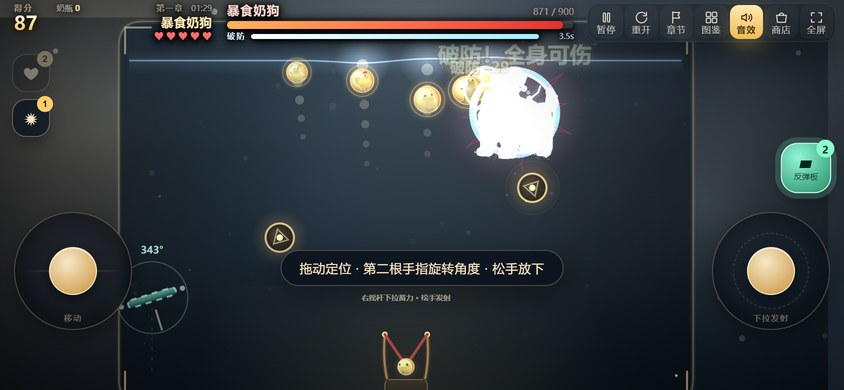
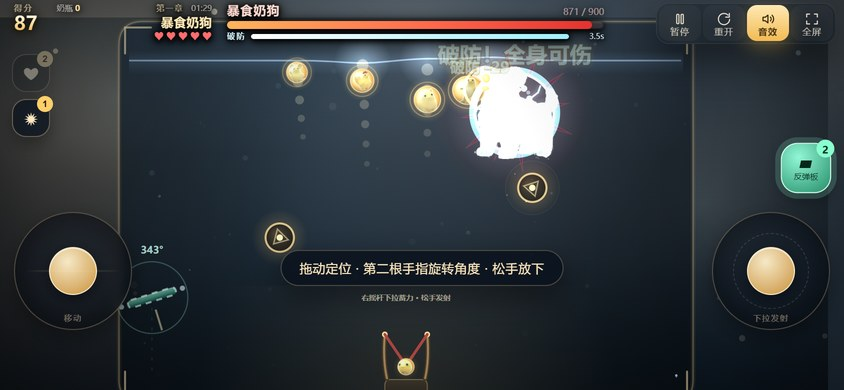
fix+perf: 血条宽度自适应、顶部按键减少并加大、素材加指纹
1) 血条自适应（原 #hud right 写死 258px）
   - 小屏 568x320 时 258px 占近一半屏宽，血条只剩 14%
   - 改为 clamp(196px, 27%, 258px)：568x320 -> 25%，640x360 -> 33%，844x390 -> 46%
   - 布局探测 8 种尺寸全部无越界/无重叠

2) 顶部工具条从 7 键减到 4 键（暂停/重开/音效/全屏）
   - 单键 33x34 -> 42x36，更接近 44px 触控建议，缓解误触
   - 图鉴/商店移入暂停面板（两列网格），章节仍走面板里的『选择章节』
   - 顶部整条 180x42，与摇杆间距 168px

3) 素材指纹（Netlify 上 assets 缓存 1 天的问题）
   - build.js 按全部图片内容算 10 位哈希，注入 ASSET_VER
   - assetURL 拼 ?v=xxx，改图立刻生效；单文件版该值为空不影响
   - 实测：网页版 ASSET_VER=6bbb5b711a，单文件版为空

测试 29 项全通过（暂停测试改为断言 4 键 + 图鉴/商店在面板内）。
按产品要求未做 prefers-reduced-motion。

Changed region(s): [[0.6161, 0.0, 0.9858, 0.1231]]

diff --git a/index.html b/index.html
@@ -343,6 +343,9 @@ body.playing #dock{opacity:1;pointer-events:auto}
 /* 暂停面板：沿用结算面板的结构与按钮，只换颜色，保证风格统一 */
 .pause-sheet{text-align:center;padding:24px 20px 20px}
 .pause-title{margin:2px 0 6px;font-size:21px;font-weight:900;letter-spacing:.06em;color:#ffe8b8}
+/* 暂停面板里的次级按钮排成两列，5 个按钮也放得下 */
+.pause-grid{display:grid;grid-template-columns:1fr 1fr;gap:8px;margin-top:9px}
+.pause-grid .ghost-btn{margin-top:0}
 .result-kicker{margin:0 0 5px;font-size:9px;letter-spacing:.5em;color:rgba(255,206,120,.7);font-weight:700}
 .win-title{margin:0;font-size:22px;font-weight:900;letter-spacing:.04em;color:#fff2d8}
 .win-title em{font-style:normal;color:#ffd477}
@@ -651,9 +654,10 @@ body.playing #bPlate.arm{
    所以横屏把 HUD 压成"一条横带"：左=得分/奶瓶，中=Boss 血条+破防，右=章节/生命。
    ========================================================= */
 @media (orientation:landscape){
-  /* 右侧留 258px 给「道具栏」，Boss 血条因此只占约 42%，不再横贯全屏 */
+  /* 右侧留给顶部工具条。用 clamp 而不是写死 258px：
+     小屏（如 568x320）上 258px 会吃掉近一半宽度，血条只剩 14%。 */
   #hud{
-    left:0;right:258px;transform:none;width:auto;
+    left:0;right:clamp(196px, 27%, 258px);transform:none;width:auto;
     top:calc(var(--sat) + 2px);padding:0 8px 0 10px;
     flex-direction:row;align-items:flex-start;gap:7px;
   }
@@ -702,13 +706,14 @@ body.playing #bPlate.arm{
     background:rgba(8,14,24,.34);border-color:rgba(255,255,255,.055);
     backdrop-filter:blur(10px);-webkit-backdrop-filter:blur(10px);
   }
+  /* 只剩 4 个常用键（暂停/重开/音效/全屏），单键从 33x34 加到 42x36 */
   .dock-btn{
-    flex:0 0 auto;width:33px;height:34px;
-    padding:2px 0 1px;border-radius:9px;gap:0;
+    flex:0 0 auto;width:42px;height:36px;
+    padding:3px 0 2px;border-radius:10px;gap:0;
     background:rgba(255,255,255,.03);border:none;
   }
-  .dock-btn svg{width:15px;height:15px}
-  .dock-btn .tx{font-size:6.5px;letter-spacing:0;line-height:1.05}
+  .dock-btn svg{width:16px;height:16px}
+  .dock-btn .tx{font-size:7px;letter-spacing:0;line-height:1.05}
 
   /* ---- 摇杆 ---- */
   .stick{width:118px;height:118px;bottom:calc(var(--sab) + 60px)}
@@ -851,22 +856,10 @@ body.playing #bPlate.arm{
     <svg viewBox="0 0 24 24"><path d="M20.4 12.6A8.4 8.4 0 1 1 18 6.2"/><path d="M20 3.6v5.6h-5.6"/></svg>
     <span class="tx">重开</span>
   </button>
-  <button class="dock-btn" id="bLevels" aria-label="章节">
-    <svg viewBox="0 0 24 24"><path d="M6 21V3"/><path d="M6 4h11l-2.2 4.2L17 13H6"/></svg>
-    <span class="tx">章节</span>
-  </button>
-  <button class="dock-btn" id="bGallery" aria-label="图鉴">
-    <svg viewBox="0 0 24 24"><rect x="3.6" y="3.6" width="7.1" height="7.1" rx="1.7"/><rect x="13.3" y="3.6" width="7.1" height="7.1" rx="1.7"/><rect x="3.6" y="13.3" width="7.1" height="7.1" rx="1.7"/><rect x="13.3" y="13.3" width="7.1" height="7.1" rx="1.7"/></svg>
-    <span class="tx">图鉴</span>
-  </button>
   <button class="dock-btn on snd-btn" id="bSound" aria-label="音效开关" aria-pressed="true">
     <svg class="ico-on" viewBox="0 0 24 24"><path d="M4.5 9.4v5.2h3.3l4.1 3.2V6.2L7.8 9.4z"/><path d="M15.6 9.1a4.2 4.2 0 0 1 0 5.8"/><path d="M18.2 6.4a8 8 0 0 1 0 11.2"/></svg>
     <svg class="ico-off" viewBox="0 0 24 24" style="display:none"><path d="M4.5 9.4v5.2h3.3l4.1 3.2V6.2L7.8 9.4z"/><path d="M16.2 9.6l5 5M21.2 9.6l-5 5"/></svg>
     <span class="tx">音效</span>
-  </button>
-  <button class="dock-btn" id="bShop" aria-label="商店">
-    <svg viewBox="0 0 24 24"><path d="M4.2 8.5h15.6l-1.4 11.2H5.6z"/><path d="M8.4 8.5a3.6 3.6 0 0 1 7.2 0"/></svg>
-    <span class="tx">商店</span>
   </button>
   <button class="dock-btn" id="bFull" aria-label="全屏">
     <svg viewBox="0 0 24 24"><path d="M4 9V4.6h4.4"/><path d="M20 9V4.6h-4.4"/><path d="M4 15v4.4h4.4"/><path d="M20 15v4.4h-4.4"/></svg>
@@ -995,8 +988,15 @@ body.playing #bPlate.arm{
     <h2 class="pause-title">已暂停</h2>
     <p class="lose-sub">喝口水，回来接着打</p>
     <button id="bResume" class="start-btn small"><span>继 续 游 戏</span></button>
-    <button class="ghost-btn" id="bPauseRestart">重开本关</button>
-    <button class="ghost-btn" id="bPauseLevels">选择章节</button>
+    <div class="pause-grid">
+      <button class="ghost-btn" id="bPauseRestart">重开本关</button>
+      <button class="ghost-btn" id="bPauseLevels">选择章节</button>
+    </div>
+    <!-- 图鉴 / 商店原来挤在顶部工具条里，挪到这里：顶部只留 4 个常用键，触控目标才够大 -->
+    <div class="pause-grid">
+      <button class="ghost-btn" id="bGallery">角色图鉴</button>
+      <button class="ghost-btn" id="bShop">奶瓶商店</button>
+    </div>
   </div>
 </section>
 
@@ -1042,10 +1042,15 @@ var ASSET_BASE = 'assets/';
    （它 302 到带签名的临时地址），浏览器 <audio> 无法流式解码，
    所以音频通常仍与 HTML 同源，图片则可以放心外置到仓库/CDN。 */
 var AUDIO_BASE = 'assets/';
+/* 素材指纹：由 build.js 按素材内容算出的短哈希，拼在 URL 后做缓存击穿。
+   文件名不变但内容变了也能立刻拿到新图，不用等 Netlify 那 1 天的 assets 缓存。
+   单文件版素材已内联，该值为空串，不影响。 */
+var ASSET_VER = /*__ASSET_VER__*/'';
 function assetURL(name){
   var slug = charImg(name);          /* 中文角色名 -> ASCII 文件名 */
   if(ASSET_DATA) return ASSET_DATA.sprites[slug] || '';
-  return ASSET_BASE + slug + '.' + SPRITE_EXT;
+  var q = ASSET_VER ? '?v=' + ASSET_VER : '';
+  return ASSET_BASE + slug + '.' + SPRITE_EXT + q;
 }
 
 /* =========================================================
@@ -6124,7 +6129,7 @@ function bindEvents(){
     closeAllScreens();
     startLevel(state.chapterIndex);
   });
-  $id('bLevels').addEventListener('click', openLevels);
+  /* 章节入口已并入暂停面板（bPauseLevels），顶部工具条只留 4 个常用键 */
   $id('bGallery').addEventListener('click', showGallery);
   $id('bShop').addEventListener('click', function(){ Sound.ui(); openShop(); });
   $id('itemBar').addEventListener('click', function(e){

diff --git a/奶系弹珠_弹射讨伐.html b/奶系弹珠_弹射讨伐.html
@@ -343,6 +343,9 @@ body.playing #dock{opacity:1;pointer-events:auto}
 /* 暂停面板：沿用结算面板的结构与按钮，只换颜色，保证风格统一 */
 .pause-sheet{text-align:center;padding:24px 20px 20px}
 .pause-title{margin:2px 0 6px;font-size:21px;font-weight:900;letter-spacing:.06em;color:#ffe8b8}
+/* 暂停面板里的次级按钮排成两列，5 个按钮也放得下 */
+.pause-grid{display:grid;grid-template-columns:1fr 1fr;gap:8px;margin-top:9px}
+.pause-grid .ghost-btn{margin-top:0}
 .result-kicker{margin:0 0 5px;font-size:9px;letter-spacing:.5em;color:rgba(255,206,120,.7);font-weight:700}
 .win-title{margin:0;font-size:22px;font-weight:900;letter-spacing:.04em;color:#fff2d8}
 .win-title em{font-style:normal;color:#ffd477}
@@ -651,9 +654,10 @@ body.playing #bPlate.arm{
    所以横屏把 HUD 压成"一条横带"：左=得分/奶瓶，中=Boss 血条+破防，右=章节/生命。
    ========================================================= */
 @media (orientation:landscape){
-  /* 右侧留 258px 给「道具栏」，Boss 血条因此只占约 42%，不再横贯全屏 */
+  /* 右侧留给顶部工具条。用 clamp 而不是写死 258px：
+     小屏（如 568x320）上 258px 会吃掉近一半宽度，血条只剩 14%。 */
   #hud{
-    left:0;right:258px;transform:none;width:auto;
+    left:0;right:clamp(196px, 27%, 258px);transform:none;width:auto;
     top:calc(var(--sat) + 2px);padding:0 8px 0 10px;
     flex-direction:row;align-items:flex-start;gap:7px;
   }
@@ -702,13 +706,14 @@ body.playing #bPlate.arm{
     background:rgba(8,14,24,.34);border-color:rgba(255,255,255,.055);
     backdrop-filter:blur(10px);-webkit-backdrop-filter:blur(10px);
   }
+  /* 只剩 4 个常用键（暂停/重开/音效/全屏），单键从 33x34 加到 42x36 */
   .dock-btn{
-    flex:0 0 auto;width:33px;height:34px;
-    padding:2px 0 1px;border-radius:9px;gap:0;
+    flex:0 0 auto;width:42px;height:36px;
+    padding:3px 0 2px;border-radius:10px;gap:0;
     background:rgba(255,255,255,.03);border:none;
   }
-  .dock-btn svg{width:15px;height:15px}
-  .dock-btn .tx{font-size:6.5px;letter-spacing:0;line-height:1.05}
+  .dock-btn svg{width:16px;height:16px}
+  .dock-btn .tx{font-size:7px;letter-spacing:0;line-height:1.05}
 
   /* ---- 摇杆 ---- */
   .stick{width:118px;height:118px;bottom:calc(var(--sab) + 60px)}
@@ -851,22 +856,10 @@ body.playing #bPlate.arm{
     <svg viewBox="0 0 24 24"><path d="M20.4 12.6A8.4 8.4 0 1 1 18 6.2"/><path d="M20 3.6v5.6h-5.6"/></svg>
     <span class="tx">重开</span>
   </button>
-  <button class="dock-btn" id="bLevels" aria-label="章节">
-    <svg viewBox="0 0 24 24"><path d="M6 21V3"/><path d="M6 4h11l-2.2 4.2L17 13H6"/></svg>
-    <span class="tx">章节</span>
-  </button>
-  <button class="dock-btn" id="bGallery" aria-label="图鉴">
-    <svg viewBox="0 0 24 24"><rect x="3.6" y="3.6" width="7.1" height="7.1" rx="1.7"/><rect x="13.3" y="3.6" width="7.1" height="7.1" rx="1.7"/><rect x="3.6" y="13.3" width="7.1" height="7.1" rx="1.7"/><rect x="13.3" y="13.3" width="7.1" height="7.1" rx="1.7"/></svg>
-    <span class="tx">图鉴</span>
-  </button>
   <button class="dock-btn on snd-btn" id="bSound" aria-label="音效开关" aria-pressed="true">
     <svg class="ico-on" viewBox="0 0 24 24"><path d="M4.5 9.4v5.2h3.3l4.1 3.2V6.2L7.8 9.4z"/><path d="M15.6 9.1a4.2 4.2 0 0 1 0 5.8"/><path d="M18.2 6.4a8 8 0 0 1 0 11.2"/></svg>
     <svg class="ico-off" viewBox="0 0 24 24" style="display:none"><path d="M4.5 9.4v5.2h3.3l4.1 3.2V6.2L7.8 9.4z"/><path d="M16.2 9.6l5 5M21.2 9.6l-5 5"/></svg>
     <span class="tx">音效</span>
-  </button>
-  <button class="dock-btn" id="bShop" aria-label="商店">
-    <svg viewBox="0 0 24 24"><path d="M4.2 8.5h15.6l-1.4 11.2H5.6z"/><path d="M8.4 8.5a3.6 3.6 0 0 1 7.2 0"/></svg>
-    <span class="tx">商店</span>
   </button>
   <button class="dock-btn" id="bFull" aria-label="全屏">
     <svg viewBox="0 0 24 24"><path d="M4 9V4.6h4.4"/><path d="M20 9V4.6h-4.4"/><path d="M4 15v4.4h4.4"/><path d="M20 15v4.4h-4.4"/></svg>
@@ -995,8 +988,15 @@ body.playing #bPlate.arm{
     <h2 class="pause-title">已暂停</h2>
     <p class="lose-sub">喝口水，回来接着打</p>
     <button id="bResume" class="start-btn small"><span>继 续 游 戏</span></button>
-    <button class="ghost-btn" id="bPauseRestart">重开本关</button>
-    <button class="ghost-btn" id="bPauseLevels">选择章节</button>
+    <div class="pause-grid">
+      <button class="ghost-btn" id="bPauseRestart">重开本关</button>
+      <button class="ghost-btn" id="bPauseLevels">选择章节</button>
+    </div>
+    <!-- 图鉴 / 商店原来挤在顶部工具条里，挪到这里：顶部只留 4 个常用键，触控目标才够大 -->
+    <div class="pause-grid">
+      <button class="ghost-btn" id="bGallery">角色图鉴</button>
+      <button class="ghost-btn" id="bShop">奶瓶商店</button>
+    </div>
   </div>
 </section>
 
@@ -1042,10 +1042,15 @@ var ASSET_BASE = 'assets/';
    （它 302 到带签名的临时地址），浏览器 <audio> 无法流式解码，
    所以音频通常仍与 HTML 同源，图片则可以放心外置到仓库/CDN。 */
 var AUDIO_BASE = 'assets/';
+/* 素材指纹：由 build.js 按素材内容算出的短哈希，拼在 URL 后做缓存击穿。
+   文件名不变但内容变了也能立刻拿到新图，不用等 Netlify 那 1 天的 assets 缓存。
+   单文件版素材已内联，该值为空串，不影响。 */
+var ASSET_VER = /*__ASSET_VER__*/'';
 function assetURL(name){
   var slug = charImg(name);          /* 中文角色名 -> ASCII 文件名 */
   if(ASSET_DATA) return ASSET_DATA.sprites[slug] || '';
-  return ASSET_BASE + slug + '.' + SPRITE_EXT;
+  var q = ASSET_VER ? '?v=' + ASSET_VER : '';
+  return ASSET_BASE + slug + '.' + SPRITE_EXT + q;
 }
 
 /* =========================================================
@@ -6124,7 +6129,7 @@ function bindEvents(){
     closeAllScreens();
     startLevel(state.chapterIndex);
   });
-  $id('bLevels').addEventListener('click', openLevels);
+  /* 章节入口已并入暂停面板（bPauseLevels），顶部工具条只留 4 个常用键 */
   $id('bGallery').addEventListener('click', showGallery);
   $id('bShop').addEventListener('click', function(){ Sound.ui(); openShop(); });
   $id('itemBar').addEventListener('click', function(e){

diff --git a/src/parts/index.html b/src/parts/index.html
@@ -71,22 +71,10 @@
     <svg viewBox="0 0 24 24"><path d="M20.4 12.6A8.4 8.4 0 1 1 18 6.2"/><path d="M20 3.6v5.6h-5.6"/></svg>
     <span class="tx">重开</span>
   </button>
-  <button class="dock-btn" id="bLevels" aria-label="章节">
-    <svg viewBox="0 0 24 24"><path d="M6 21V3"/><path d="M6 4h11l-2.2 4.2L17 13H6"/></svg>
-    <span class="tx">章节</span>
-  </button>
-  <button class="dock-btn" id="bGallery" aria-label="图鉴">
-    <svg viewBox="0 0 24 24"><rect x="3.6" y="3.6" width="7.1" height="7.1" rx="1.7"/><rect x="13.3" y="3.6" width="7.1" height="7.1" rx="1.7"/><rect x="3.6" y="13.3" width="7.1" height="7.1" rx="1.7"/><rect x="13.3" y="13.3" width="7.1" height="7.1" rx="1.7"/></svg>
-    <span class="tx">图鉴</span>
-  </button>
   <button class="dock-btn on snd-btn" id="bSound" aria-label="音效开关" aria-pressed="true">
     <svg class="ico-on" viewBox="0 0 24 24"><path d="M4.5 9.4v5.2h3.3l4.1 3.2V6.2L7.8 9.4z"/><path d="M15.6 9.1a4.2 4.2 0 0 1 0 5.8"/><path d="M18.2 6.4a8 8 0 0 1 0 11.2"/></svg>
     <svg class="ico-off" viewBox="0 0 24 24" style="display:none"><path d="M4.5 9.4v5.2h3.3l4.1 3.2V6.2L7.8 9.4z"/><path d="M16.2 9.6l5 5M21.2 9.6l-5 5"/></svg>
     <span class="tx">音效</span>
-  </button>
-  <button class="dock-btn" id="bShop" aria-label="商店">
-    <svg viewBox="0 0 24 24"><path d="M4.2 8.5h15.6l-1.4 11.2H5.6z"/><path d="M8.4 8.5a3.6 3.6 0 0 1 7.2 0"/></svg>
-    <span class="tx">商店</span>
   </button>
   <button class="dock-btn" id="bFull" aria-label="全屏">
     <svg viewBox="0 0 24 24"><path d="M4 9V4.6h4.4"/><path d="M20 9V4.6h-4.4"/><path d="M4 15v4.4h4.4"/><path d="M20 15v4.4h-4.4"/></svg>
@@ -215,8 +203,15 @@
     <h2 class="pause-title">已暂停</h2>
     <p class="lose-sub">喝口水，回来接着打</p>
     <button id="bResume" class="start-btn small"><span>继 续 游 戏</span></button>
-    <button class="ghost-btn" id="bPauseRestart">重开本关</button>
-    <button class="ghost-btn" id="bPauseLevels">选择章节</button>
+    <div class="pause-grid">
+      <button class="ghost-btn" id="bPauseRestart">重开本关</button>
+      <button class="ghost-btn" id="bPauseLevels">选择章节</button>
+    </div>
+    <!-- 图鉴 / 商店原来挤在顶部工具条里，挪到这里：顶部只留 4 个常用键，触控目标才够大 -->
+    <div class="pause-grid">
+      <button class="ghost-btn" id="bGallery">角色图鉴</button>
+      <button class="ghost-btn" id="bShop">奶瓶商店</button>
+    </div>
   </div>
 </section>
 

diff --git a/src/parts/style.css b/src/parts/style.css
@@ -334,6 +334,9 @@ body.playing #dock{opacity:1;pointer-events:auto}
 /* 暂停面板：沿用结算面板的结构与按钮，只换颜色，保证风格统一 */
 .pause-sheet{text-align:center;padding:24px 20px 20px}
 .pause-title{margin:2px 0 6px;font-size:21px;font-weight:900;letter-spacing:.06em;color:#ffe8b8}
+/* 暂停面板里的次级按钮排成两列，5 个按钮也放得下 */
+.pause-grid{display:grid;grid-template-columns:1fr 1fr;gap:8px;margin-top:9px}
+.pause-grid .ghost-btn{margin-top:0}
 .result-kicker{margin:0 0 5px;font-size:9px;letter-spacing:.5em;color:rgba(255,206,120,.7);font-weight:700}
 .win-title{margin:0;font-size:22px;font-weight:900;letter-spacing:.04em;color:#fff2d8}
 .win-title em{font-style:normal;color:#ffd477}
@@ -642,9 +645,10 @@ body.playing #bPlate.arm{
    所以横屏把 HUD 压成"一条横带"：左=得分/奶瓶，中=Boss 血条+破防，右=章节/生命。
    ========================================================= */
 @media (orientation:landscape){
-  /* 右侧留 258px 给「道具栏」，Boss 血条因此只占约 42%，不再横贯全屏 */
+  /* 右侧留给顶部工具条。用 clamp 而不是写死 258px：
+     小屏（如 568x320）上 258px 会吃掉近一半宽度，血条只剩 14%。 */
   #hud{
-    left:0;right:258px;transform:none;width:auto;
+    left:0;right:clamp(196px, 27%, 258px);transform:none;width:auto;
     top:calc(var(--sat) + 2px);padding:0 8px 0 10px;
     flex-direction:row;align-items:flex-start;gap:7px;
   }
@@ -693,13 +697,14 @@ body.playing #bPlate.arm{
     background:rgba(8,14,24,.34);border-color:rgba(255,255,255,.055);
     backdrop-filter:blur(10px);-webkit-backdrop-filter:blur(10px);
   }
+  /* 只剩 4 个常用键（暂停/重开/音效/全屏），单键从 33x34 加到 42x36 */
   .dock-btn{
-    flex:0 0 auto;width:33px;height:34px;
-    padding:2px 0 1px;border-radius:9px;gap:0;
+    flex:0 0 auto;width:42px;height:36px;
+    padding:3px 0 2px;border-radius:10px;gap:0;
     background:rgba(255,255,255,.03);border:none;
   }
-  .dock-btn svg{width:15px;height:15px}
-  .dock-btn .tx{font-size:6.5px;letter-spacing:0;line-height:1.05}
+  .dock-btn svg{width:16px;height:16px}
+  .dock-btn .tx{font-size:7px;letter-spacing:0;line-height:1.05}
 
   /* ---- 摇杆 ---- */
   .stick{width:118px;height:118px;bottom:calc(var(--sab) + 60px)}

diff --git a/build.js b/build.js
@@ -99,6 +99,19 @@ for (const name of fs.readdirSync(assetsDir)) {
   stems.add(stem);
 }
 
+/* 素材指纹：把所有图片按文件名+内容算一个短哈希。
+   任意一张立绘改了，哈希就变，URL 跟着变，CDN 缓存自然被击穿。 */
+const assetsVer = (() => {
+  const crypto = require('crypto');
+  const h = crypto.createHash('sha1');
+  const files = fs.readdirSync(assetsDir).filter((n) => /\.(png|webp)$/i.test(n)).sort();
+  for (const f of files) {
+    h.update(f);
+    h.update(fs.readFileSync(path.join(assetsDir, f)));
+  }
+  return files.length ? h.digest('hex').slice(0, 10) : '';
+})();
+
 const sprites = {};
 const spriteSource = {};
 for (const stem of [...stems].sort()) {
@@ -155,6 +168,15 @@ if (webMode) {
   };
   if (assetBaseArg) rewrite('ASSET_BASE', assetBaseArg);
   if (audioBaseArg) rewrite('AUDIO_BASE', audioBaseArg);
+
+  /* 素材指纹：按内容算一个短哈希拼到图片 URL 后面。
+     Netlify 上 assets/* 缓存 1 天，不加这个改了立绘要等缓存过期才生效。 */
+  if (assetsVer) {
+    const def = `var ASSET_VER = /*__ASSET_VER__*/'';`;
+    if (!webHtml.includes(def)) throw new Error('源码里找不到 ASSET_VER 占位，无法注入');
+    webHtml = webHtml.replace(def, () => `var ASSET_VER = ${JSON.stringify(assetsVer)};`);
+    console.log(`ASSET_VER = ${assetsVer}`);
+  }
 
   fs.writeFileSync(path.join(webDir, 'index.html'), webHtml, 'utf8');
 

diff --git a/src/parts/js/00-utils.js b/src/parts/js/00-utils.js
@@ -28,9 +28,14 @@ var ASSET_BASE = 'assets/';
    （它 302 到带签名的临时地址），浏览器 <audio> 无法流式解码，
    所以音频通常仍与 HTML 同源，图片则可以放心外置到仓库/CDN。 */
 var AUDIO_BASE = 'assets/';
+/* 素材指纹：由 build.js 按素材内容算出的短哈希，拼在 URL 后做缓存击穿。
+   文件名不变但内容变了也能立刻拿到新图，不用等 Netlify 那 1 天的 assets 缓存。
+   单文件版素材已内联，该值为空串，不影响。 */
+var ASSET_VER = /*__ASSET_VER__*/'';
 function assetURL(name){
   var slug = charImg(name);          /* 中文角色名 -> ASCII 文件名 */
   if(ASSET_DATA) return ASSET_DATA.sprites[slug] || '';
-  return ASSET_BASE + slug + '.' + SPRITE_EXT;
+  var q = ASSET_VER ? '?v=' + ASSET_VER : '';
+  return ASSET_BASE + slug + '.' + SPRITE_EXT + q;
 }
 

diff --git a/src/parts/js/20-boot.js b/src/parts/js/20-boot.js
@@ -132,7 +132,7 @@ function bindEvents(){
     closeAllScreens();
     startLevel(state.chapterIndex);
   });
-  $id('bLevels').addEventListener('click', openLevels);
+  /* 章节入口已并入暂停面板（bPauseLevels），顶部工具条只留 4 个常用键 */
   $id('bGallery').addEventListener('click', showGallery);
   $id('bShop').addEventListener('click', function(){ Sound.ui(); openShop(); });
   $id('itemBar').addEventListener('click', function(e){

diff --git a/README.md b/README.md
@@ -123,10 +123,11 @@
   中=Boss 血条+破防，右=章节/生命；不画卡片背景、只留投影，避免挡住场地顶部的 Boss。
 - **场地贴底**：横屏时场地框直接拉到屏幕最底部（只留 4px 描边余量），可玩带 143 → **319px**
   （844×390 下 277px），底下不再留一条空带。
-- **左右两栏都用起来**：7 个功能键（暂停/重开/章节/图鉴/音效/商店/全屏）做成 2 列竖栏放**左侧**，
-  道具栏 + 反弹板按钮放**右侧**（摇杆上方），左右对称、互不压场地。摇杆 118px 在左右下角。
-  反弹板按钮**没买就整个隐藏**，不会用一个「0」的空按钮占地方。
-  竖屏保持原布局（底部一排，7 键实测仍放得下）。
+- **顶部只留 4 个常用键**：暂停 / 重开 / 音效 / 全屏，单键 **42×36px**（原 33×34，太接近手指宽度容易点空）。
+  图鉴 / 商店收进**暂停面板**（那里是真正的"菜单"）。道具栏放手左上、反弹板按钮在右侧摇杆上方，
+  反弹板**没买就整个隐藏**。摇杆 118px 在左右下角。
+- **血条宽度自适应**：`#hud` 的右侧留白从写死的 258px 改成 `clamp(196px, 27%, 258px)`——
+  小屏上 258px 曾吃掉近一半宽度，568×320 时血条只剩 **14%**；改后为 **25%**（640×360 为 33%）。
 - **动态背景**：不再用静态图，改成程序化生成的场景——两层柔光云以不同速度反向漂移，叠加缓慢上浮的
   奶滴粒子，并随开场有缩放呼吸。场地留了透光，暖金色光晕会从场地内部透出来；零素材开销。
   两层云在 resize 时预渲染成离屏画布，每帧只做两次 `drawImage`。
@@ -268,6 +269,10 @@ Accept-Ranges:   (缺失)       ✗
 （另外 Gitee raw 还拒绝返回 HTML，`451 Unavailable For Legal Reasons`。）
 
 ### 构建网页版
+
+> **素材指纹**：`--web` 构建会按素材内容算一个 10 位哈希，注入成 `ASSET_VER`，
+> 所有立绘 URL 变成 `assets/dog.webp?v=6bbb5b711a`。这样改了图立刻生效，
+> 不用等 CDN 的 `max-age=86400` 过期。单文件版素材内联，该值为空、不影响。
 
 ```bash
 # A. 全部同源（素材跟 HTML 一起部署，最稳）
